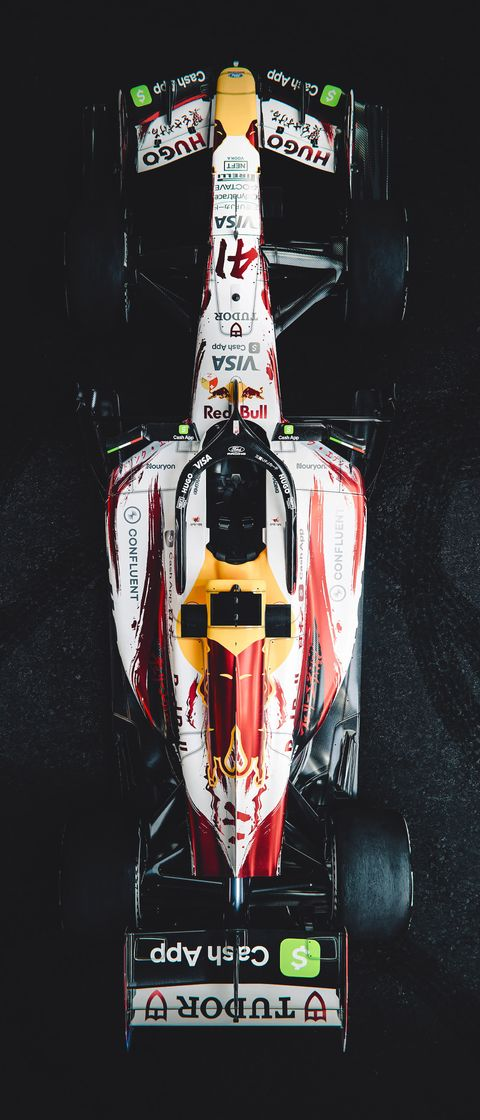
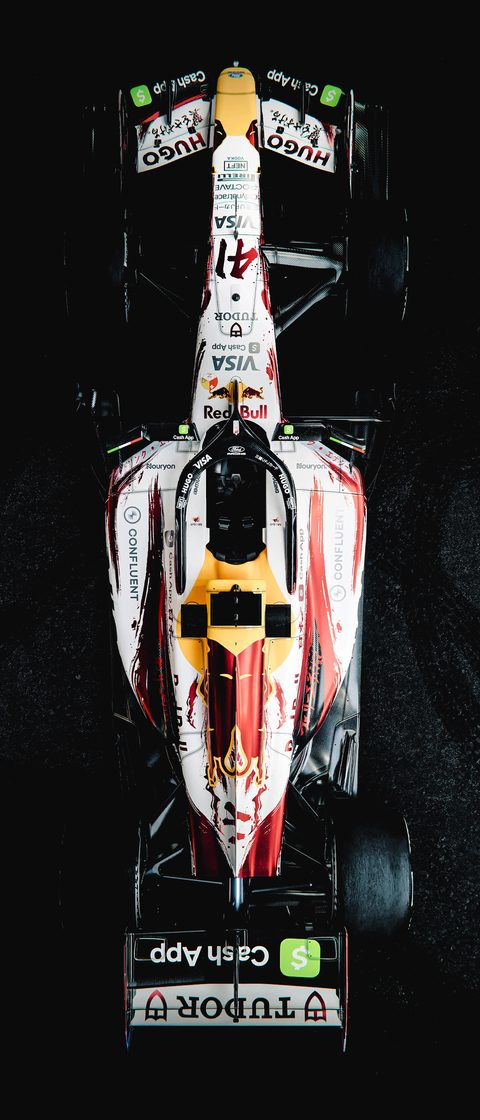
Black background for the car section

diff --git a/scripts/dashboard.py b/scripts/dashboard.py
@@ -233,7 +233,8 @@ def car_section(x, y, w, h, callouts: list[dict]) -> str:
     s = (h - 16) / PHOTO_H                                       # fit the photo to the column height
     left, top = x + w * 0.6 - PHOTO_W * s / 2, y + 8
     to_screen = lambda px, py: (left + px * s, top + py * s)     # photo units -> screen
-    parts = [f'<rect x="{x}" y="{y}" width="{w}" height="{h}" rx="16" fill="url(#carglow)"/>', car_photo(left, top, s)]
+    # black panel: the photo's road surface was regraded to the same near-black, so the car blends in
+    parts = [f'<rect x="{x}" y="{y}" width="{w}" height="{h}" rx="16" fill="{INK}" stroke="{LINE}"/>', car_photo(left, top, s)]
     parts += [hotspot(*to_screen(*xy)) for xy in PHOTO_SPOTS.values()]
 
     n = len(callouts)
@@ -595,7 +596,6 @@ def defs() -> str:
     return f'''<defs>
     <filter id="glow" x="-20%" y="-20%" width="140%" height="140%"><feGaussianBlur stdDeviation="2.2" result="b"/><feMerge><feMergeNode in="b"/><feMergeNode in="SourceGraphic"/></feMerge></filter>
     <linearGradient id="loadbar" x1="0" y1="1" x2="0" y2="0"><stop offset="0" stop-color="{CORAL}"/><stop offset="1" stop-color="{PINK}"/></linearGradient>
-    <radialGradient id="carglow" cx="0.55" cy="0.45" r="0.6"><stop offset="0" stop-color="{PINK}" stop-opacity="0.10"/><stop offset="1" stop-color="{PINK}" stop-opacity="0"/></radialGradient>
     <filter id="feather" x="-10%" y="-10%" width="120%" height="120%"><feGaussianBlur stdDeviation="34"/></filter>
     <mask id="photofade" maskUnits="userSpaceOnUse" x="0" y="0" width="{PHOTO_W}" height="{PHOTO_H}">
       <rect x="70" y="60" width="{PHOTO_W - 140}" height="{PHOTO_H - 120}" rx="160" fill="#fff" filter="url(#feather)"/>
